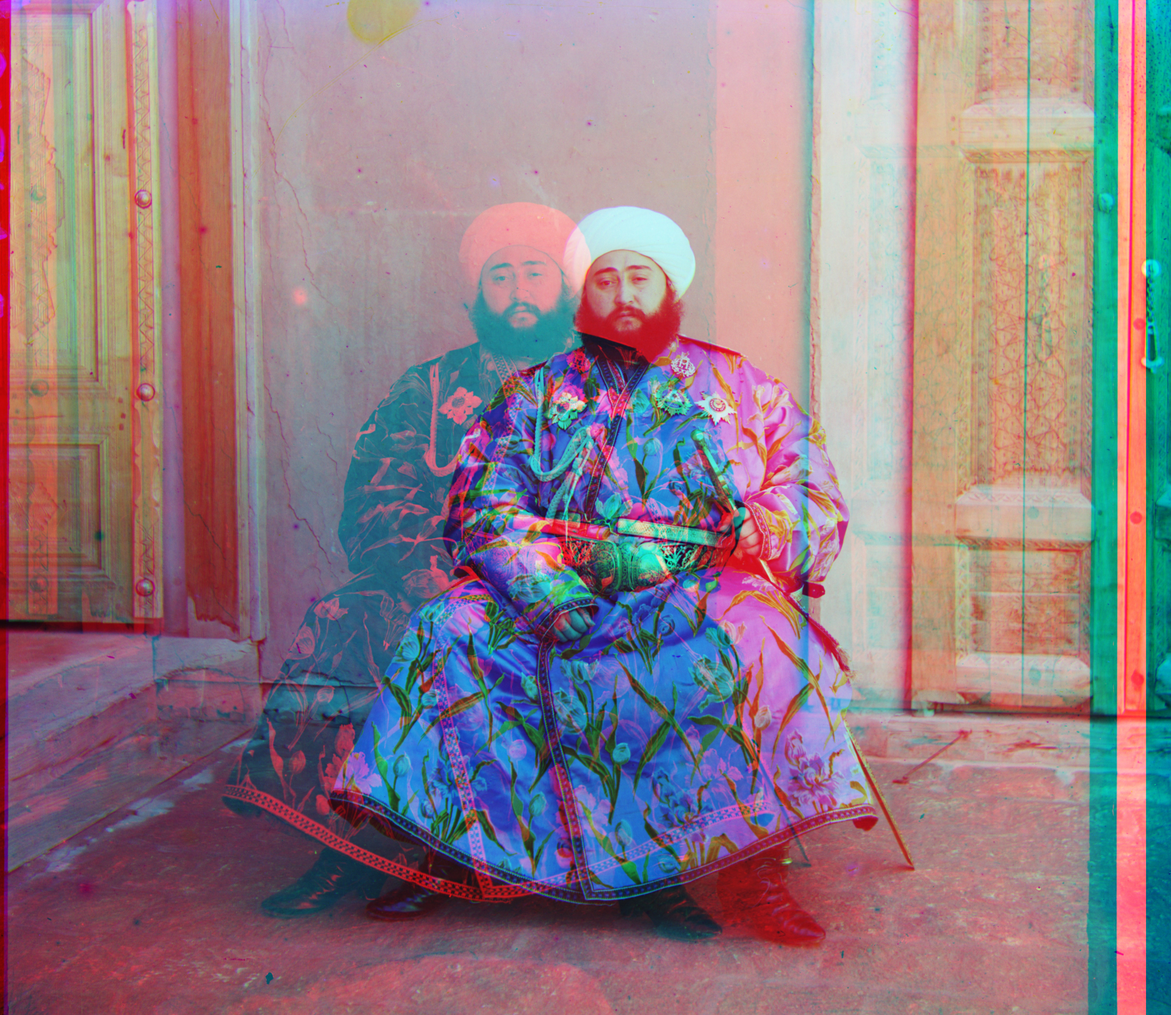
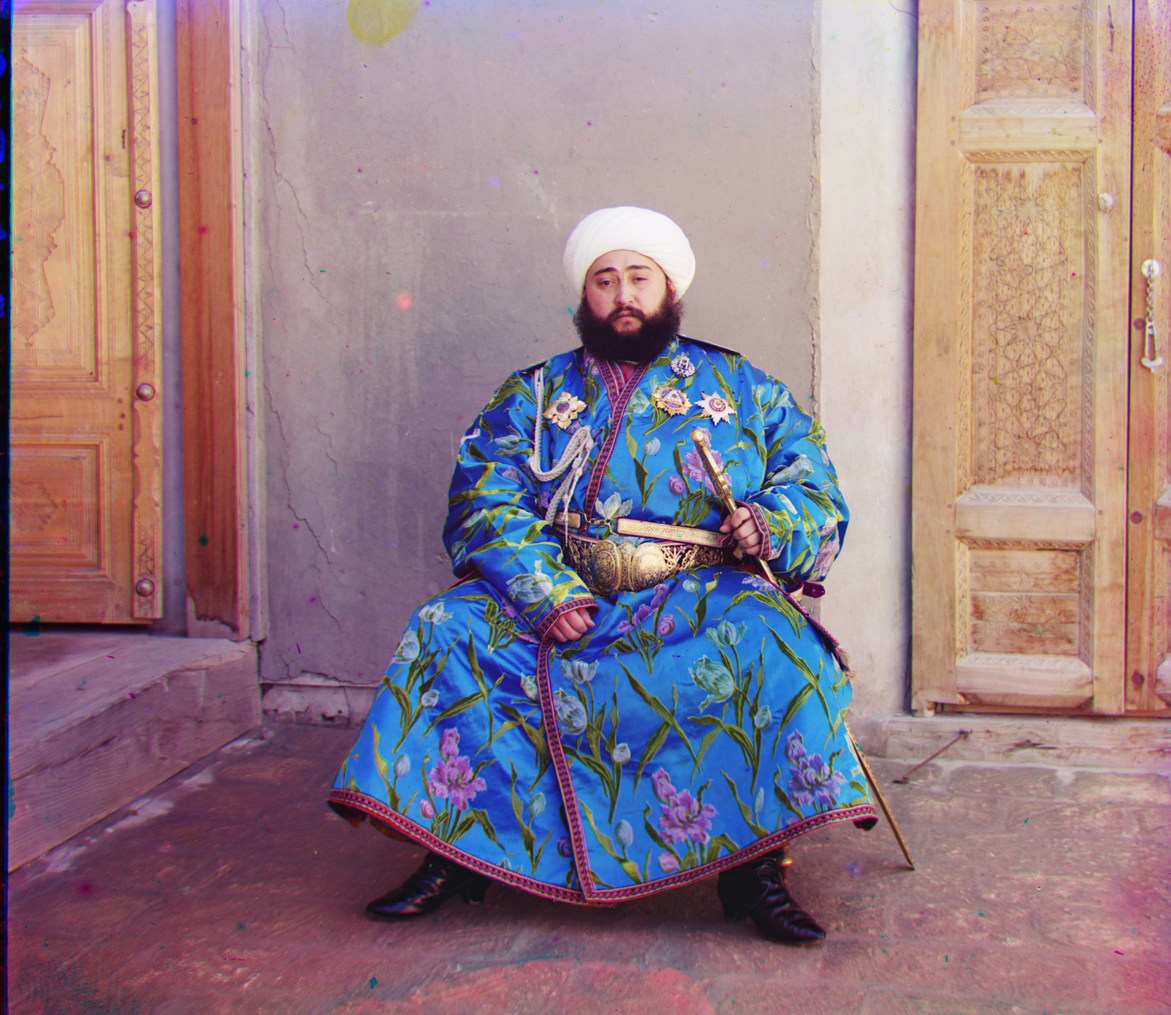
done

diff --git a/index.html b/index.html
@@ -45,7 +45,7 @@
     <p>
       Let B, G, R be the three grayscale channels - which I got by splitting the original files into 3. We estimate integer displacements
       \((\Delta x_G, \Delta y_G)\) and \((\Delta x_R, \Delta y_R)\) that align \(G\) and \(R\) to \(B\).
-      The final color image is RGB color image. Conceptually, we want to find what alignment of the plates (the array values) is the most similar for each channel, and that will help us recreate a color effect. That similarity can be determined using different metrics, like the L2 Norm or the NCC. For each image, I used one of my two alignment functions (naive / pyramid), which uses the SSD / NCC metric respectively, and for each of them, I cropped off 10% of the edges to give a cleaner appearance.
+      The final color image is an RGB color image. Conceptually, we want to find what alignment of the plates (the array values) is the most similar for each channel, and that will help us recreate a color effect. That similarity can be determined using different metrics, like the L2 Norm or the NCC. For each image, I used one of my two alignment functions (naive / pyramid), which uses the SSD / NCC metric respectively, and for each of them, I cropped off 10% of the edges to give a cleaner appearance.
     </p>
   </section>
 
@@ -108,13 +108,19 @@
     </ol>
 
 	<h3>Difficulties</h3>
+	Originally, I was not able to align the emir photo correctly, namely the R plate (when I ran the algorithm for the G plate, it worked perfectly fine!).
+  As you can see, there's "ghost" artifact that's misasligned, I think mainly because of the complexity of the designs (a clear pattern couldn't be discerned).
+  Just to align the red portion of this image, I added a function to preprocess the array -- essentially blur / filter the plate using a Gaussian blur and Sobel filter (to simply the designs and highlight the edges), and that resolved the issue, and we can see the correct emir alignment after.
 	<div class="grid">
       <figure>
         <img src="failed-pyramid-emir.jpg" alt="Colorized Emir" class="thumb">
-        <figcaption>emir.tif — shifts: G=<code>(24,-49)</code>, R=<code>(-256,-94)</code></figcaption>
+        <figcaption>emir.tif — (incorrect) shifts: G=<code>(24,-49)</code>, R=<code>(-256,-94)</code></figcaption>
+      </figure>
+      <figure>
+        <img src="pyramid-emir.jpg" alt="Colorized Emir" class="thumb">
+        <figcaption>emir.tif — shifts: G=<code>(24,-49)</code>, R=<code>(40,-107)</code></figcaption>
       </figure>
     </div>
-	Originally, I was not able to align the emir photo correctly, namely the __ plate. 
 
 
 	<h3>Gallery</h3>
